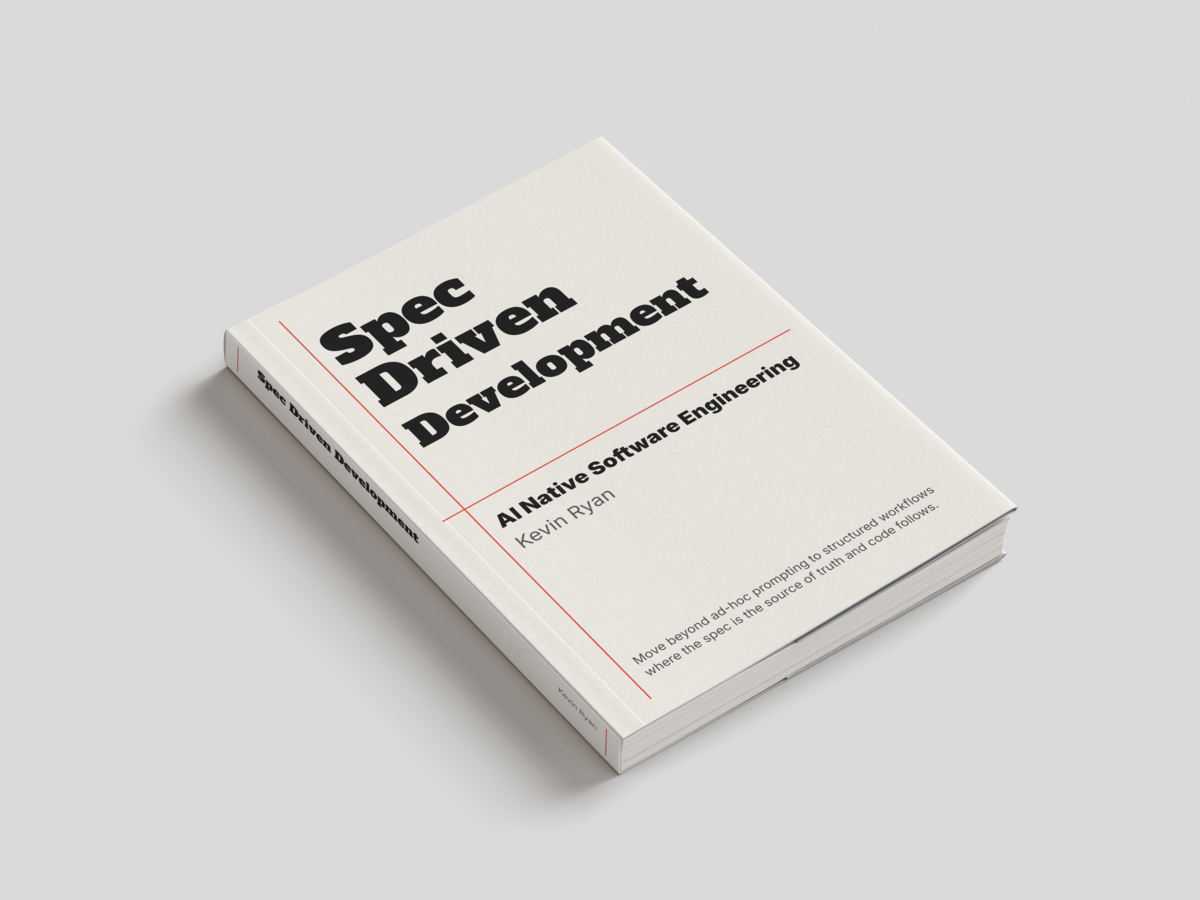
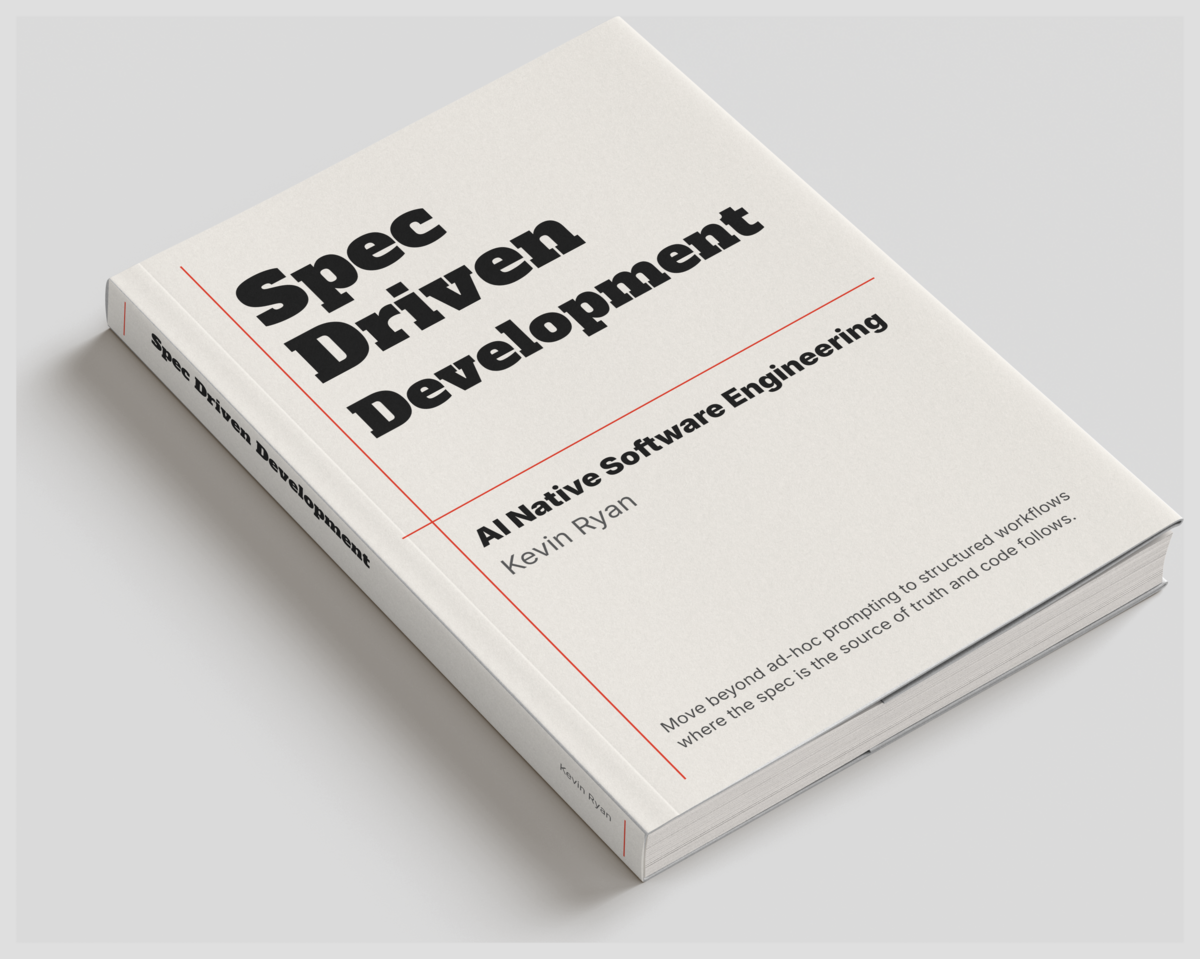
update site image size

Changed region(s): [[0.0308, 0.2178, 0.9867, 0.9644], [0.8325, 0.3733, 0.8633, 0.4044], [0.4625, 0.6844, 0.4933, 0.7156]]

diff --git a/site/index.html b/site/index.html
@@ -17,7 +17,7 @@
       align-items: center;
       justify-content: center;
       font-family: 'Inter', sans-serif;
-      padding: 3rem 1.5rem;
+      padding: 1.5rem 1rem;
     }
 
     .container {
@@ -26,12 +26,12 @@
       display: flex;
       flex-direction: column;
       align-items: center;
-      gap: 3rem;
+      gap: 2rem;
     }
 
     .mockup {
       width: 100%;
-      max-width: 700px;
+      max-width: 800px;
     }
 
     .mockup img {
